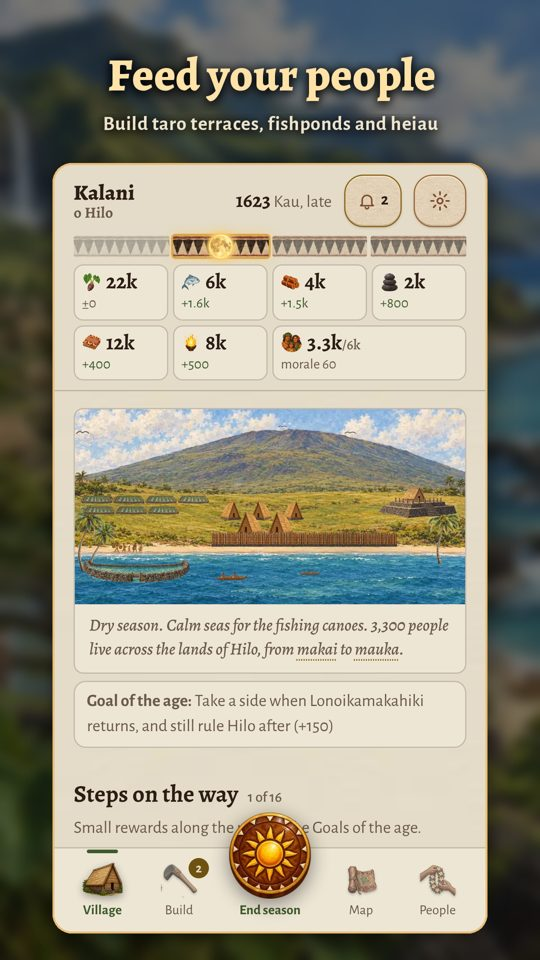
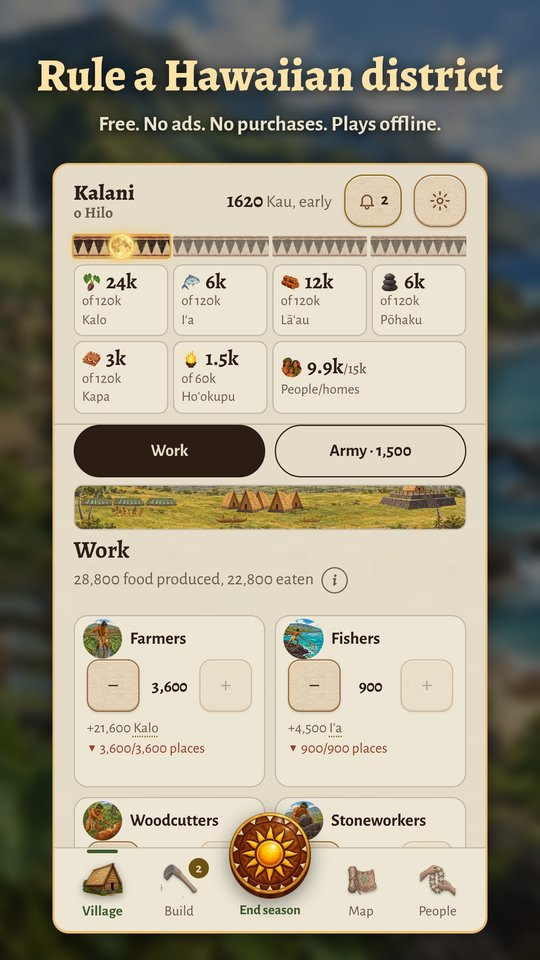
Aliʻi: 5.5.22 store screenshots on the game page, 'battlefields' wording, release notes with 5.5.22
Claude-Session: https://claude.ai/code/session_013z2ydSFxaMUs1ZUjegomNp

diff --git a/alii/index.html b/alii/index.html
@@ -83,7 +83,7 @@ footer{color:var(--muted);font-size:.92rem;border-top:1px solid var(--line);padd
 
   <section>
     <h2>About the game</h2>
-    <p>Aliʻi is a turn-based strategy game set in old Hawaiʻi, before the islands were one kingdom. The old ruler is dead, and a district is yours to lead. Put your people to work in the loʻi, on the reef and in the fishponds, build heiau and canoe sheds, win allies through marriage and gifts, and fight tactical battles on painted battlefields from mauka to makai. Cross the channels by voyaging canoe and try to unite Hawaiʻi Island, Maui, Oʻahu and Kauaʻi.</p>
+    <p>Aliʻi is a turn-based strategy game set in old Hawaiʻi, before the islands were one kingdom. The old ruler is dead, and a district is yours to lead. Put your people to work in the loʻi, on the reef and in the fishponds, build heiau and canoe sheds, win allies through marriage and gifts, and fight tactical battles on battlefields from mauka to makai. Cross the channels by voyaging canoe and try to unite Hawaiʻi Island, Maui, Oʻahu and Kauaʻi.</p>
     <p>Choose when your reign begins: around 1500, as ʻUmi rises against his half-brother; in 1620, as the district chiefs rise against Lonoikamakahiki; or in 1782, as Kamehameha, Keōua and Kahekili fight for the islands. At the end of a reign, the chronicle closes with your score, a medal and a chant made from what you actually did.</p>
   </section>
 
@@ -103,15 +103,15 @@ footer{color:var(--muted);font-size:.92rem;border-top:1px solid var(--line);padd
   <section>
     <h2>Screenshots</h2>
     <div class="shots">
-      <a href="img/1_village.jpg"><img src="img/1_village.jpg" alt="Village screen" width="540" height="960" loading="lazy"></a>
-      <a href="img/2_map.jpg"><img src="img/2_map.jpg" alt="Island map of Oʻahu with its real coastline" width="540" height="960" loading="lazy"></a>
-      <a href="img/3_battle.jpg"><img src="img/3_battle.jpg" alt="Tactical battle" width="540" height="960" loading="lazy"></a>
-      <a href="img/4_envoy.jpg"><img src="img/4_envoy.jpg" alt="An envoy from a rival chief" width="540" height="960" loading="lazy"></a>
-      <a href="img/5_chief.jpg"><img src="img/5_chief.jpg" alt="Your chief" width="540" height="960" loading="lazy"></a>
-      <a href="img/6_chant.jpg"><img src="img/6_chant.jpg" alt="End-of-reign chant" width="540" height="960" loading="lazy"></a>
-      <a href="img/7_checkin.jpg"><img src="img/7_checkin.jpg" alt="Seasonal check-in" width="540" height="960" loading="lazy"></a>
-      <a href="img/8_research.jpg"><img src="img/8_research.jpg" alt="Kahuna research" width="540" height="960" loading="lazy"></a>
-      <a href="img/9_menu.jpg"><img src="img/9_menu.jpg" alt="Title menu" width="540" height="960" loading="lazy"></a>
+      <a href="img/1_village.jpg"><img src="img/1_village.jpg" alt="Village screen with stores, people and work" width="540" height="960" loading="lazy"></a>
+      <a href="img/2_map.jpg"><img src="img/2_map.jpg" alt="Hawaiʻi Island map with a rival realm drawn" width="540" height="960" loading="lazy"></a>
+      <a href="img/3_war.jpg"><img src="img/3_war.jpg" alt="March sheet with the odds and likely losses" width="540" height="960" loading="lazy"></a>
+      <a href="img/4_build.jpg"><img src="img/4_build.jpg" alt="Build screen with the Kauhale" width="540" height="960" loading="lazy"></a>
+      <a href="img/5_event.jpg"><img src="img/5_event.jpg" alt="An event card with priced choices and a courtier’s advice" width="540" height="960" loading="lazy"></a>
+      <a href="img/6_court.jpg"><img src="img/6_court.jpg" alt="An adviser who remembers your last choice" width="540" height="960" loading="lazy"></a>
+      <a href="img/7_chant.jpg"><img src="img/7_chant.jpg" alt="The chant made from your reign" width="540" height="960" loading="lazy"></a>
+      <a href="img/8_sources.jpg"><img src="img/8_sources.jpg" alt="Sources: the nine books" width="540" height="960" loading="lazy"></a>
+      <a href="img/9_menu.jpg"><img src="img/9_menu.jpg" alt="Title menu" width="540" height="1171" loading="lazy"></a>
     </div>
     <p><a class="btn" href="alii-press-kit.zip" download>Download the press kit (14 MB)</a></p>
     <p class="dates">Icon, key art and nine full-size screenshots (1080 × 1920). Free to use in coverage of the game.</p>

diff --git a/alii/release-notes.html b/alii/release-notes.html
@@ -48,6 +48,29 @@ a{color:var(--kalo)}
 <main>
 <header><h1>Aliʻi: Rise of a Chief release notes</h1><p class="lede">Every update, newest first.</p></header>
 <div class="band" aria-hidden="true"></div>
+<section class="rel"><h2>What came in this release (store version 5.5.22, everything since the last store release 5.4.2)</h2>
+<p>Versions 5.5.0 to 5.5.21 reach the stores together, as 5.5.22: the stores go from 5.4.2 straight to 5.5.22. Everything new since 5.4.2, checked against the specs, QA reports and reviews; the last fixes are in the 5.5.22 entry below.</p>
+<ul>
+<li>History and sources: a second history pass against Kamakau and Kuykendall, a "Where the books differ" panel, and nine books on the Sources page (5.5.0, 5.5.1, 5.5.21).</li>
+<li>New stories: ʻUmi's road, Kahekili's route and the siege of Kaʻuiki, Kamehameha's route (Kekūhaupiʻo, Olowalu, John Young and Isaac Davis, Kapoukahi and Puʻukoholā), Lonoikamakahiki at kōnane, Kauaʻi's places, salt, taro and kapu lines, Kamalālāwalu's Maui campaign, and six folklore cards that have a follow-up 8 to 16 seasons later.</li>
+<li>Court and family: a Court tab, advisers who remember whether you took their counsel, a Dynasty page, hānai pacts listed, and no hānai demand when you have no child.</li>
+<li>War: odds and expected losses before you march, Hold and March home on arrival, a warning when your scouting is old, a levy that waits until you march, a prompt before arming takes weapons from another band, and a stronger chief may press a childless chief for Kalo or warriors.</li>
+<li>Village and economy: Train takes people from other jobs when nobody is idle, "Train to 15%" and a warning past 20%, full stores shown on the tiles and in the report, a Welcome toast that shows once, a Kauhale for more homes, great works that can be raised to higher tiers, a Feast of plenty, gifts to allies, and cheaper first-tier discoveries.</li>
+<li>Map: owners shown by color and border (rivals dashed), and rival realms drawn with a letter mark and a legend.</li>
+<li>Cards and screens: event cards with four choices scroll as one card, the card title stays at the top while you scroll, courtiers give card-specific advice (22 cards got new lines; 5 one-choice cards show none), the title menu no longer flashes, and Settings fits small phones.</li>
+<li>Endings: the medal is capped by goals met and the sheet says why, four lines of your chant show on the end sheet, and the titles no longer read "A chief remembered".</li>
+<li>Text: American spelling throughout, no "Kingdom" before unification, "vassal" removed, and Hāʻena spelled with its kahakō.</li>
+</ul></section>
+<section class="rel"><h2>5.5.22 (2026-11-24)</h2>
+<p class="where">sent to both stores on 2026-11-24. Google Play production 1230 at 100% and App Store build 261124.1233, both in store review (release/log.md). Closed testing 1230 the same day.</p>
+
+<ul>
+<li>Advisers speak less often and only when it fits: a line about your past counsel shows only for a recent one, never twice in a row, and never praises advice that went badly. Cards with no real advice show none.</li>
+<li>Cards now fit their season: the hōlua and the Makahiki heir card only in Makahiki, and the heiau repair only in winter. No courtier name is reused in a reign.</li>
+<li>The Work and Army pages fit small phones: the idle count is no longer clipped, and a strip tells you when the Train buttons are below the fold.</li>
+<li>Grayed-out buttons now say why (Welcome, raising a great work, gifts to a chief who already trusts you fully). Costs show as rounded figures, and what you see is what is charged.</li>
+<li>Fixes: season reports show the real change in your stores, the Chronicle files entries under the right season, exile seasons agree on every screen, and the war sheet scales a chief's guard like everything else.</li>
+</ul></section>
 <section class="rel"><h2>5.4.2 (2026-11-22)</h2>
 <p class="where">Google Play production, live 2026-11-22. App Store, live by 2026-11-23 (approval date not recorded). It replaced 5.4.1 and 5.4.0 for iPhone.</p>
 
